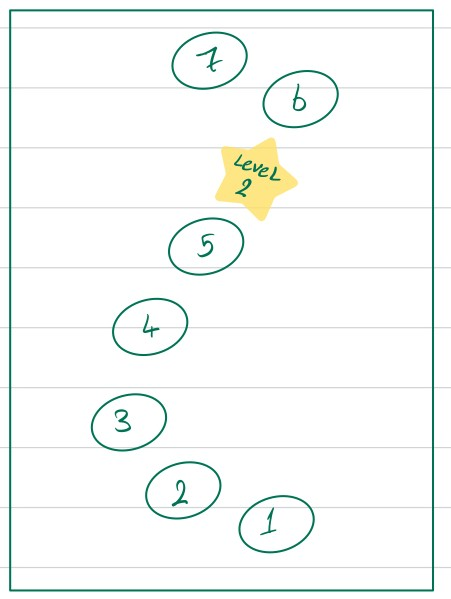
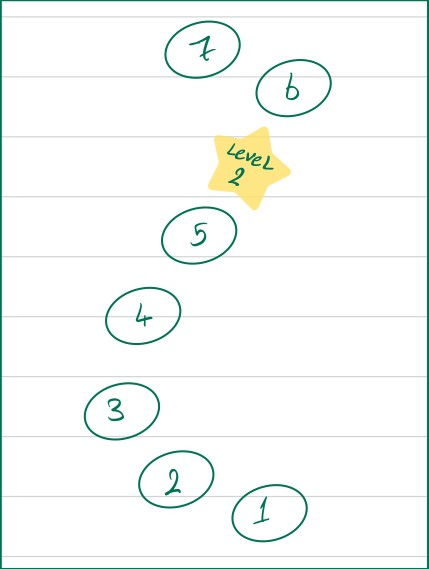
Converted mock screenshots to slideshow

Changed region(s): [[0.0, 0.0, 1.0, 1.0], [0.3636, 0.3884, 0.3939, 0.4482]]

diff --git a/index.html b/index.html
@@ -4,6 +4,22 @@
             Diffdash
         </title>
         <link rel="stylesheet" href="style.css">
+
+        <script type="text/javascript">
+            var cur_mock = 1
+            function cycleClick(num){
+                var d = document.getElementById('MockDisplay')
+                cur_mock += num
+                if(cur_mock < 1){
+                    cur_mock = 5
+                }
+                if(cur_mock > 5){
+                    cur_mock = 1
+                }
+                d.src = ("Mock" + cur_mock.toString() + ".jpeg")
+            }    
+        </script>
+
     </head>
     
     <style>
@@ -13,6 +29,17 @@
             width: 20%;
             padding: 5px;
         }
+
+        button {
+            moz-border-radius: 15px;
+            -webkit-border-radius: 15px;
+            border-width:thin;
+            width:36px;
+            margin-left:5px;
+            margin-right:5px;
+            margin-top:3px;
+            margin-bottom:3px;
+	    }
 
     </style>
 
@@ -49,17 +76,9 @@
             For questions that ask users to respond with equations, a math keyboard will be provided to the user. </pre>
         <h4><a href="./diffdash-team.html">Meet Our Team</a></h4>
         <h4><i>Mock Screenshots</i></h4>
-        <div class="column">
-            <img src="Mock1.jpeg" alt="Mock 1" width = "215" height ="264" >
-        </div>
-        <div class="column">
-            <img src="Mock2.jpeg" alt="Mock 2" width = "215" height ="264" >
-        </div>
-        <div class="column">
-            <img src="Mock3.jpeg" alt="Mock 3" width = "215" height ="264" >
-        </div>
-        <div class="column">
-            <img src="Mock4.jpeg" alt="Mock 4" width = "415" height ="264" >
+        <button class="cycle" onclick="cycleClick(-1)"><</button>
+        <img id="MockDisplay" src="Mock1.jpeg" alt="Mock 1" width = "215" height ="264" >
+        <button class="cycle" onclick="cycleClick(1)">></button>
         </div> 
     </body>
 </html>
